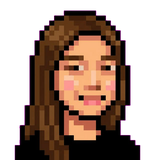
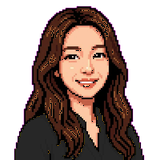
fix: 이전 버전 가족 초상화 복구 및 엄마 검은 옷으로 색상 변경

diff --git a/recolor_mom.py b/recolor_mom.py
@@ -1,0 +1,34 @@
+from PIL import Image
+import os
+
+img = Image.open('assets/images/char_mom.png').convert('RGBA')
+if hasattr(img, 'get_flattened_data'):
+    data = img.get_flattened_data()
+else:
+    data = list(img.getdata())
+
+new_data = []
+
+for r, g, b, a in data:
+    if a > 50:
+        # Detect Yellow-ish colors for the shirt
+        # Skin colors also have high R and G, but they also have high B (e.g. 252, 199, 165)
+        # Yellow has very low B (e.g. 252, 252, 0)
+        if r > 120 and g > 120 and b < 100:
+            # Map yellow to dark gray
+            intensity = (r + g + b) / 3
+            # map intensity ~170-255 to 30-50
+            v = int(20 + (intensity / 255) * 30)
+            new_data.append((v, v, v, a))
+        # Handle darker yellow shadow pixels
+        elif r > 80 and g > 80 and b < 50:
+            new_data.append((20, 20, 20, a))
+        else:
+            new_data.append((r, g, b, a))
+    else:
+        new_data.append((r, g, b, a))
+
+
+img.putdata(new_data)
+img.save('assets/images/char_mom.png')
+print("Mom's shirt recolored to black/dark gray!")

diff --git a/analyze_mom.py b/analyze_mom.py
@@ -1,0 +1,16 @@
+from PIL import Image
+from collections import Counter
+
+img = Image.open('assets/images/char_mom.png').convert('RGBA')
+pixels = list(img.getdata())
+
+# Count colors, excluding transparent or near-transparent
+colors = [p for p in pixels if p[3] > 200]
+most_common = Counter(colors).most_common(20)
+
+print("Most common colors:")
+for color, count in most_common:
+    print(color, count)
+
+# We want to change the shirt color. I'll output this first, 
+# then write the replacement logic.
